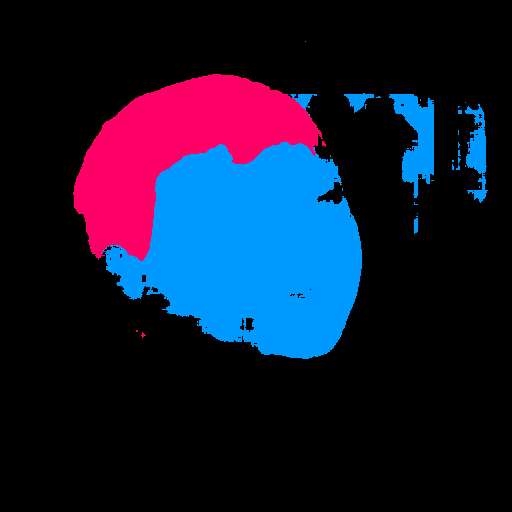
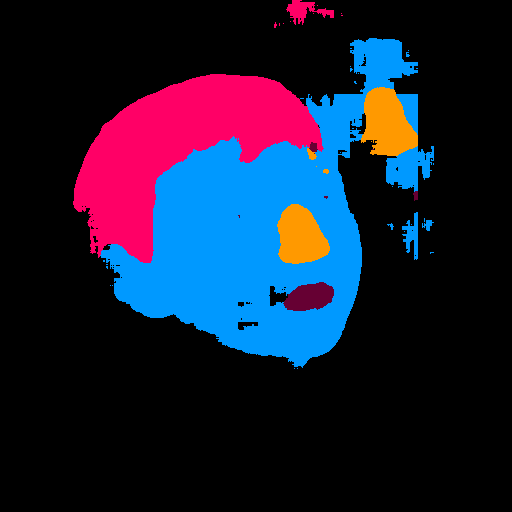
Added results after epoch 10

diff --git a/inference.py b/inference.py
@@ -45,7 +45,7 @@ transform = transforms.Compose([
     transforms.ToTensor(),                   # Convert PIL Image to tensor
      transforms.Normalize(mean=[0.485, 0.456, 0.406], std=[0.229, 0.224, 0.225])
 ])
-#
+
 # # Infinite Face Detection Loop
 # v_cap = cv2.VideoCapture(0)
 # v_cap.set(cv2.CAP_PROP_FRAME_WIDTH, 256)
@@ -77,14 +77,14 @@ transform = transforms.Compose([
 # cv2.destroyAllWindows()
 
 # Process single image
-img_file = "trial_images/img3.jpg"
+img_file = "trial_images/img1.jpg"
 img = cv2.imread(img_file)
 input_tensor = transform(img).unsqueeze(0)
 with torch.no_grad():
     output = model(input_tensor)
 segmented_image = create_image_from_output(output)
 segmented_image = cv2.cvtColor(segmented_image, cv2.COLOR_RGB2BGR)
-cv2.imwrite("results/img3.png",segmented_image)
+cv2.imwrite("results/img1.png",segmented_image)
 
 
 
